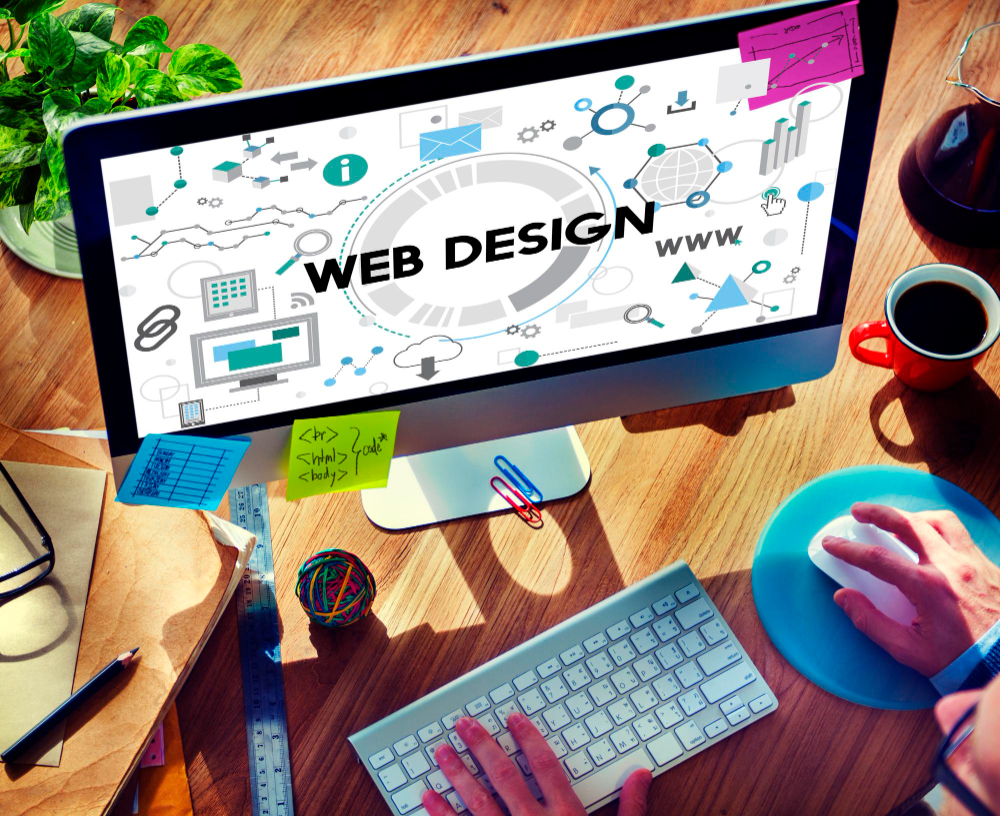
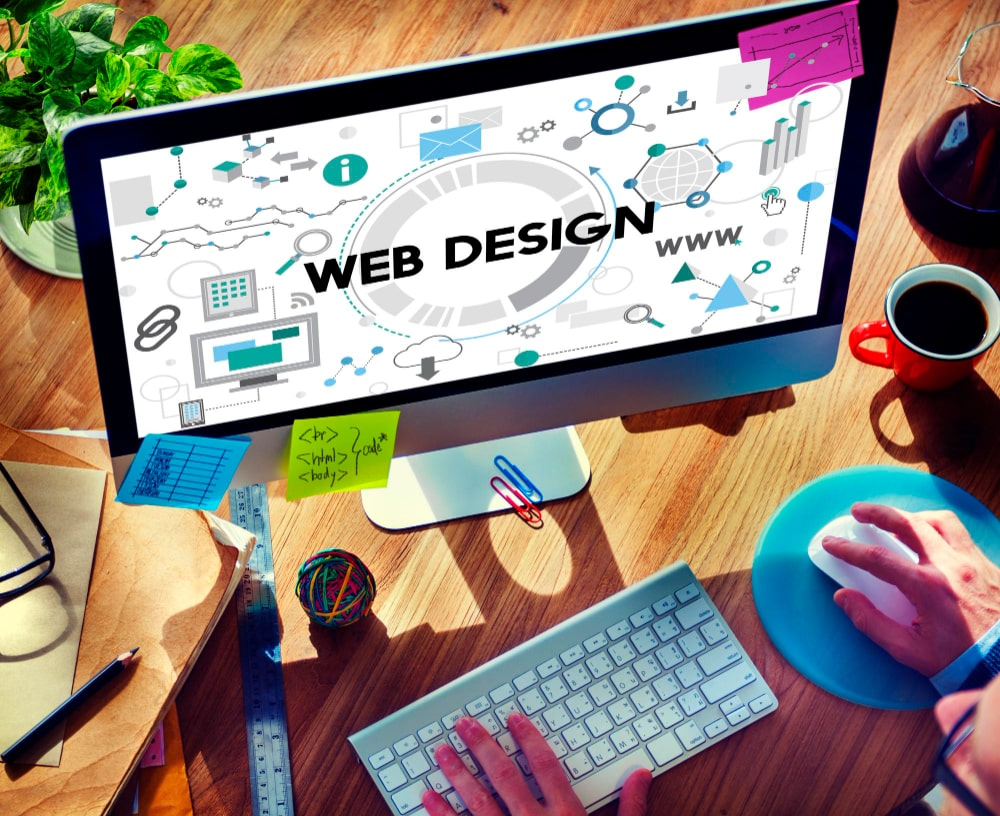
image was optimized

diff --git a/src/components/Proyects/index.jsx b/src/components/Proyects/index.jsx
@@ -38,7 +38,7 @@ function Proyects() {
           <figure className="h-56 transition duration-500 ease-in-out overflow-clip rounded-xl sm:rounded-xl lg:border lg:border-fuchsia-500 lg:hover:border-gray-700 lg:hover:bg-gray-800/50">
             <img
               className="h-full w-full ease-in-out duration-500 transition-transform hover:scale-105 "
-              src="src/assets/portfolio/galeria.png"
+              src="src/assets/portfolio/galeria.webp"
               alt="Galeria de imagenes, en cual tenia como finalidad en aprendizaje de CSS GRID"
             />
           </figure>
@@ -98,7 +98,7 @@ function Proyects() {
           <figure className="h-56 transition duration-500 ease-in-out overflow-clip rounded-xl sm:rounded-xl lg:border lg:border-fuchsia-500 lg:hover:border-gray-700 lg:hover:bg-gray-800/50">
             <img
               className="h-full w-full ease-in-out duration-500 transition-transform hover:scale-105 "
-              src="src\assets\portfolio\AdministraYA.png"
+              src="src\assets\portfolio\AdministraYA.webp"
               alt="Galeria de imagenes, en cual tenia como finalidad en aprendizaje de CSS GRID"
             />
           </figure>
